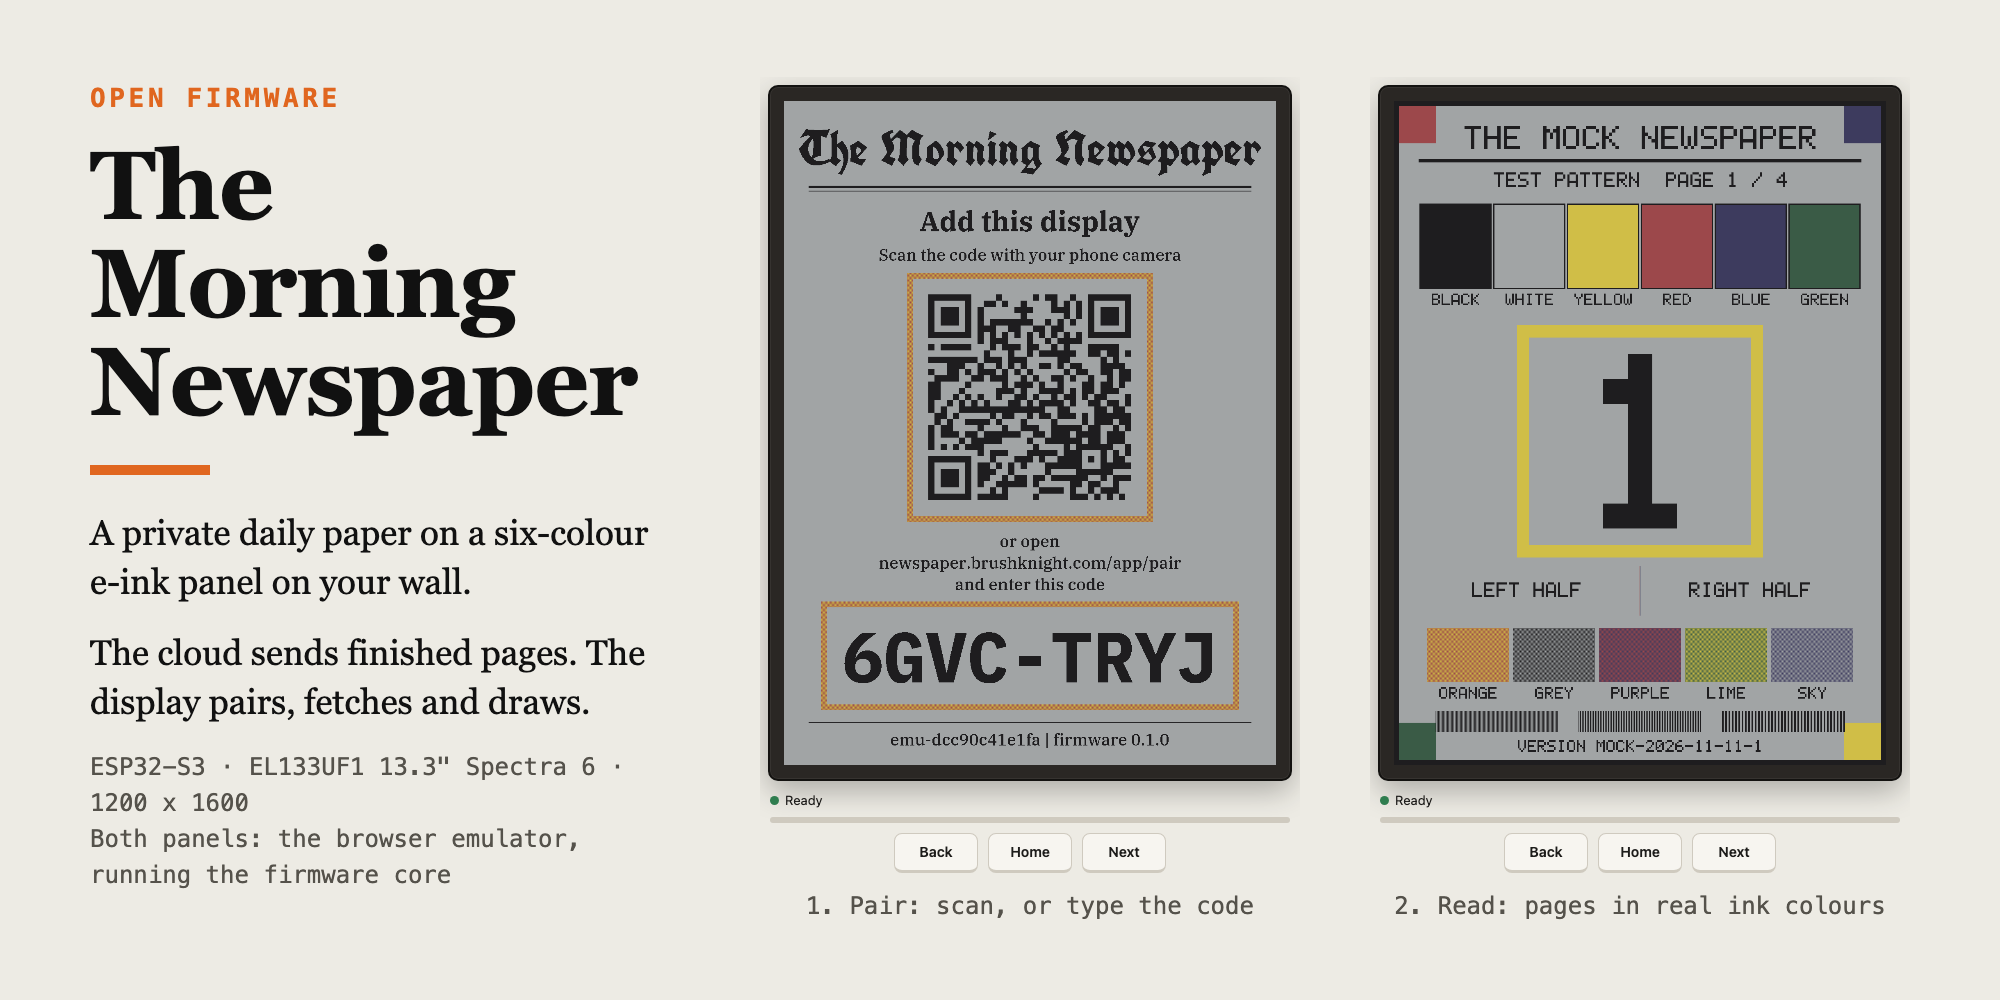
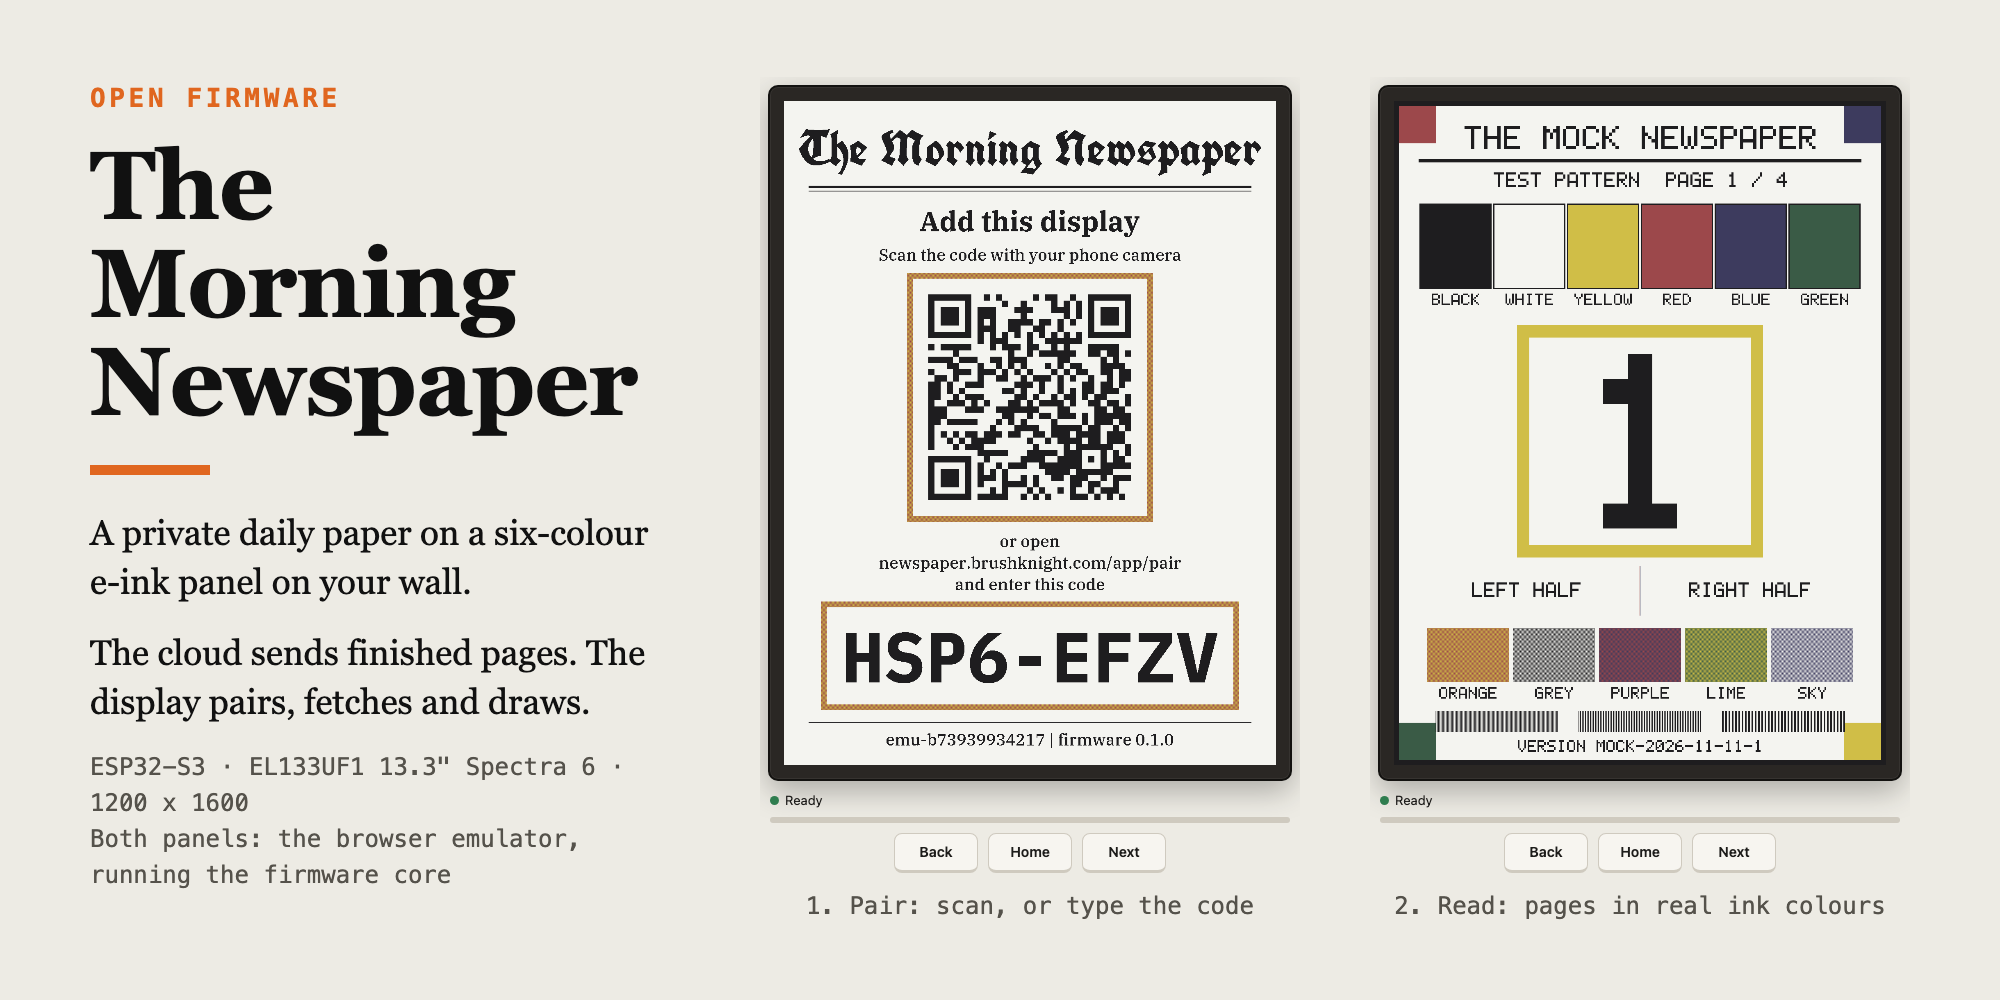
Show the panel's ground as white in the emulator and the README hero
Claude-Session: https://claude.ai/code/session_01HUd2ZGmTeBg3dt9NUGxuSA

Changed region(s): [[0.372, 0.093, 0.651, 0.775], [0.682, 0.093, 0.961, 0.775]]

diff --git a/targets/wasm/web/panel-sim.js b/targets/wasm/web/panel-sim.js
@@ -11,7 +11,8 @@
 //     states and then settles; BUSY is low for all of it
 //   - DRF during a refresh is refused, and so is a DRF sooner than 180
 //     seconds after the previous refresh ended (the maker's minimum interval)
-//   - colours are the measured ink colours, not pure RGB
+//   - the white ground is a clean paper white; the five inks are the duller
+//     measured ink colours, not pure RGB
 //
 // Time can be scaled with setSpeed (1, 4, or Infinity for "instant": a
 // refresh then takes a quarter of a second and the rest period is dropped).
@@ -33,7 +34,7 @@
   // RGB per ink code. Codes 4 and 7 do not exist on this panel; a frame that
   // uses them is wrong, so they are shown in a colour that stands out.
   const PALETTES = {
-    panel: [[0x1e, 0x1d, 0x1f], [0xa1, 0xa4, 0xa5], [0xd0, 0xbe, 0x47], [0x9c, 0x48, 0x4b], [0xff, 0x00, 0xff], [0x3d, 0x3b, 0x5e], [0x3a, 0x5b, 0x46], [0xff, 0x00, 0xff]],
+    panel: [[0x1e, 0x1d, 0x1f], [0xf4, 0xf4, 0xf0], [0xd0, 0xbe, 0x47], [0x9c, 0x48, 0x4b], [0xff, 0x00, 0xff], [0x3d, 0x3b, 0x5e], [0x3a, 0x5b, 0x46], [0xff, 0x00, 0xff]],
     ideal: [[0, 0, 0], [255, 255, 255], [255, 255, 0], [255, 0, 0], [255, 0, 255], [0, 0, 255], [0, 255, 0], [255, 0, 255]],
   };
 

diff --git a/targets/wasm/web/index.html b/targets/wasm/web/index.html
@@ -35,7 +35,7 @@
     display: flex;
   }
   .frame canvas {
-    width: 100%; height: 100%; display: block; background: #a1a4a5;
+    width: 100%; height: 100%; display: block; background: #f4f4f0;
     box-shadow: inset 0 0 0 1px rgb(0 0 0 / .4); image-rendering: auto;
   }
   .keys { display: flex; gap: 10px; }
